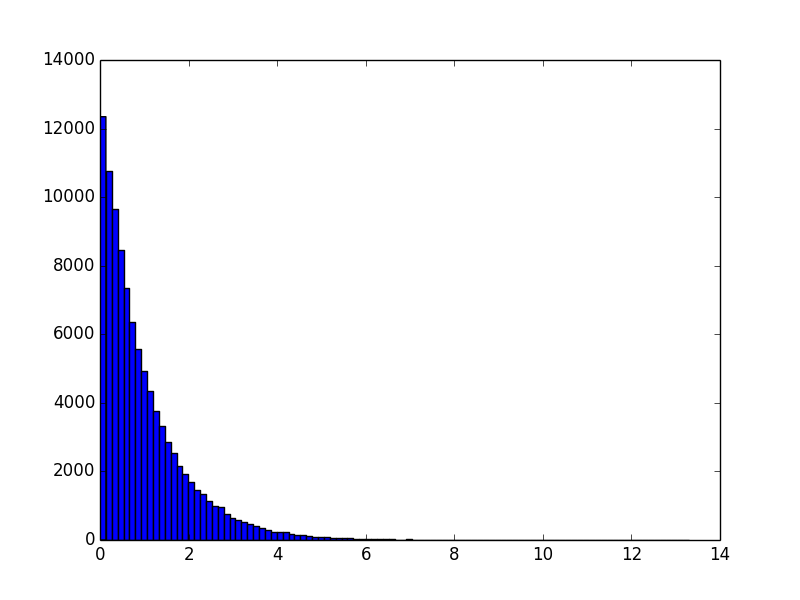
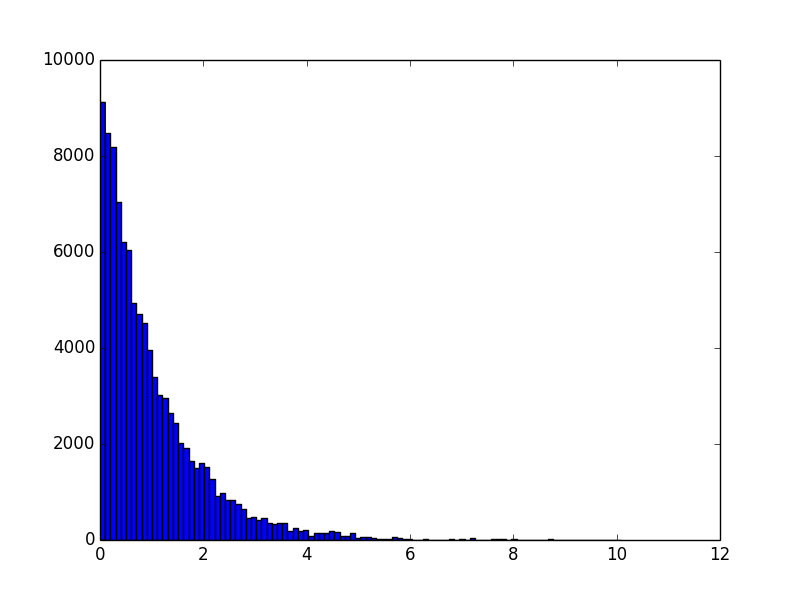
ej 2

diff --git a/tp1/2.py b/tp1/2.py
@@ -5,15 +5,30 @@ import numpy as np
 import matplotlib.pyplot as mp
 import random
 
+class GCL():
+	def __init__(self, seed = 0):
+		self.current = seed
+
+	def random(self):
+		self.current = round(((1013904223 * self.current) + 1664525) % (2**32))
+		return self.current / (2**32)
+
+	def next(self):
+		number = self.random()
+		return number
+
 def inverse(a):
 	lamb = 20
 	result = (-1/lamb) * np.log(1-a)
 	return result
 
+seed = 93152 * 0.15 + 93570 * 0.25 + 99722 * 0.6
+generator = GCL(seed)
+
 total_samples = 100000
 numbers = []
 for i in range(0, total_samples):
-	numbers.append(inverse(random.uniform(0,1)))
+	numbers.append(inverse(generator.next()))
 
 l = np.array(numbers)
 print("Media obtenida: ", round(l.mean(), 4))
